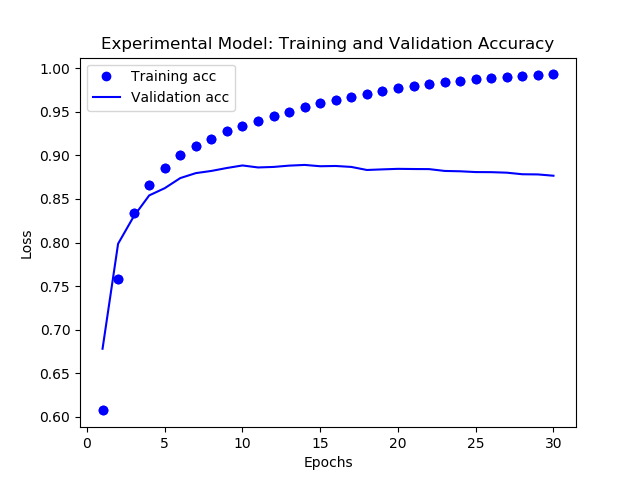
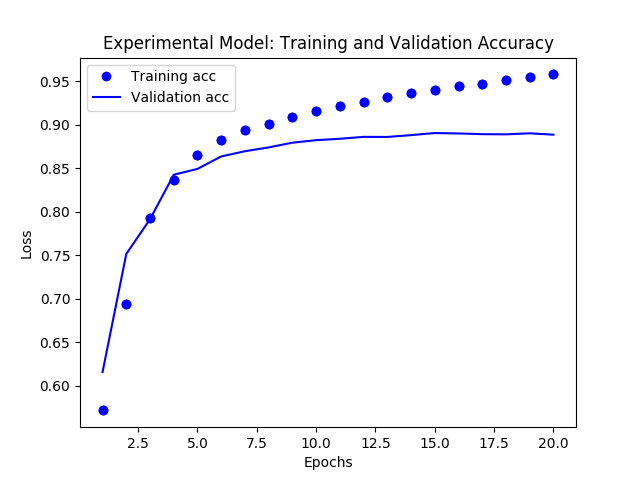
new images + minor comments for model_nn.py

diff --git a/keras/imdbclassifier/model_nn.py b/keras/imdbclassifier/model_nn.py
@@ -38,8 +38,9 @@ class KModel():
 if __name__ == '__main__':
 
     mmaker = KModel()
+    #build the basic model
     model = mmaker.build_basic_model()
     model.summary()
-
-    custom_model = mmaker.build_experimental_model(3, 32, 'tanh')
+    #build an experimental
+    custom_model = mmaker.build_experimental_model(3, 32, 'mae')
     custom_model.summary()
